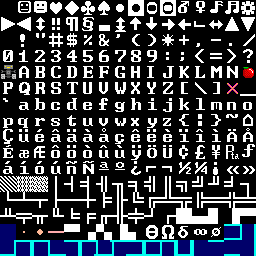
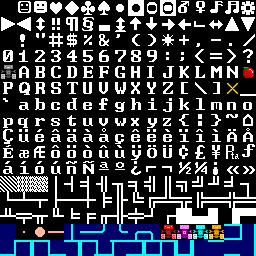
Many updates -- basic working map / move / score
- new map design in place and map.txt fixed
- READY! message printing and removal
- tunnel teleporting functional
- player movement and wall collision detection working
- scoring working
- much old code removed

Changed region(s): [[0.25, 0.875, 0.875, 0.9375], [0.125, 0.875, 0.1875, 0.9375]]

diff --git a/game.py b/game.py
@@ -7,12 +7,12 @@ from CYLGame import StatusPanel
 from CYLGame import PanelBorder
 
 
-DEBUG = False
+DEBUG = True
 
 
 class PacBot(Game):
-    MAP_WIDTH = 22
-    MAP_HEIGHT = 22
+    MAP_WIDTH = 30
+    MAP_HEIGHT = 34
     SCREEN_WIDTH = MAP_WIDTH + 2
     SCREEN_HEIGHT = MAP_HEIGHT + 6
     MSG_START = 20
@@ -32,30 +32,28 @@ class PacBot(Game):
     HOUSE_ODDS = 500 # e.g., 1/500
 
 
+    PLAYER_START_X = 14
+    PLAYER_START_Y = 24
+
     PLAYER = '@'
     EMPTY = '\0'
-    LWALL = chr(255)
-    UWALL = chr(254)
-    DWALL = chr(253)
-    RWALL = chr(252)
-    UCAP = chr(251)
-    DCAP = chr(250)
-    RCAP = chr(249)
-    LCAP = chr(248)
-    ULCOR = chr(247)
-    URCOR = chr(246)
-    BRCOR = chr(245)
-    BLCOR = chr(244)
-    URXCOR = chr(243)
-    BRXCOR = chr(242)
-    BLXCOR = chr(241)
-    ULXCOR = chr(240)
-    LRWALL = chr(239)
-    UDWALL = chr(238)
+    APPLE = 'O'
     FULL = chr(224)
     DOT = chr(225)
     POWER = chr(226)
     DOOR = chr(227)
+    PIPE = chr(228)
+    HYPHEN = chr(229)
+    J = chr(230)
+    L = chr(231)
+    F = chr(232)
+    SEVEN = chr(233)
+
+    # ghosts
+    BLINKY = chr(234)
+    PINKY = chr(235)
+    INKY = chr(236)
+    CLYDE = chr(237)
     
 
     def __init__(self, random):
@@ -67,7 +65,7 @@ class PacBot(Game):
         self.last_move = 'w' # need this to restore objects
         self.flying = 0 # set to some value and decrement (0 == on ground)
         self.hp = 1
-        self.player_pos = [self.MAP_WIDTH / 2, self.MAP_HEIGHT - 4]
+        self.player_pos = [self.PLAYER_START_X, self.PLAYER_START_Y]
         self.score = 0
         self.objects = []
         self.turns = 0
@@ -75,10 +73,24 @@ class PacBot(Game):
         self.msg_panel = MessagePanel(self.MSG_START, self.MAP_HEIGHT + 1, self.SCREEN_WIDTH - self.MSG_START, 5)
         self.status_panel = StatusPanel(0, self.MAP_HEIGHT + 1, self.MSG_START, 5)
         self.panels = [self.msg_panel, self.status_panel]
-        self.msg_panel.add("Velkommen to Robot Backcountry Skiing!")
-        self.msg_panel.add("Move left and right! Don't crash!")
 
         self.__create_map()
+
+    def print_ready(self):
+        x = 12
+        y = 18
+        for char in "READY!":
+            self.map[(x,y)] = char
+            x += 1
+
+    def erase_ready(self):
+        x = 12
+        y = 18
+        for char in "READY!":
+            self.map[(x,y)] = ' '
+            x += 1
+
+
 
     def __create_map(self):
         self.map = MapPanel(0, 0, self.MAP_WIDTH, self.MAP_HEIGHT + 1, self.EMPTY,
@@ -86,28 +98,21 @@ class PacBot(Game):
 
         self.panels += [self.map]
 
-        mapmap = {'Q': self.LWALL,
-                  'W': self.RWALL,
-                  'E': self.UWALL,
-                  'R': self.DWALL,
-                  'A': self.LCAP,
-                  'S': self.RCAP,
-                  'D': self.UCAP,
-                  'F': self.DCAP,
-                  'Z': self.BLCOR,
-                  'X': self.ULCOR,
-                  'C': self.BRCOR,
-                  'V': self.URCOR,
-                  '1': self.BLXCOR,
-                  '2': self.ULXCOR,
-                  '3': self.BRXCOR,
-                  '4': self.URXCOR,
-                  'U': self.FULL,
-                  'I': self.DOT,
+        mapmap = {'|': self.PIPE,
+                  '-': self.HYPHEN,
+                  'L': self.L,
+                  '7': self.SEVEN,
+                  'J': self.J,
+                  'F': self.F,
+                  '.': self.DOT,
                   'O': self.POWER,
-                  'P': self.DOOR,
-                  'H': self.LRWALL,
-                  'J': self.UDWALL}
+                  '=': self.DOOR,
+                  '#': self.FULL,
+                  ' ': self.EMPTY,
+                  'B': self.BLINKY,
+                  'P': self.PINKY,
+                  'I': self.INKY,
+                  'C': self.CLYDE}
 
         # open map file
         x = 0
@@ -121,7 +126,9 @@ class PacBot(Game):
                     x += 1
                 y += 1
         
-        self.map[(9,15)] = self.PLAYER
+        self.map[(14,24)] = self.PLAYER
+
+        self.print_ready()
 
         if DEBUG:
             print(self.get_vars_for_bot())  # need sensors before turn
@@ -177,50 +184,70 @@ class PacBot(Game):
                     self.map[(self.player_pos[0] + x, self.player_pos[1] + y)] = self.TRACKS
 
 
-    def handle_key(self, key):
-        self.turns += 1
-        if self.flying > 0:
-            self.score += self.FLYING_POINTS
-            self.flying -= 1
-            self.msg_panel += ["In flight for " + str(self.flying) + " turns..."]
-            if self.flying == 0:
-                self.msg_panel += ["Back on the ground!"]
+    def is_ghost(self, item):
+        if item == self.BLINKY or item == self.PINKY or item == self.INKY or item == self.CLYDE:
+            return True
         else:
-            self.score += 1
+            return False
 
-        if self.turns % 30 == 0:
-            self.level += 1
+    def is_fruit(self, item):
+        if item == self.APPLE:
+            return True
+        else:
+            return False
+
+
+    def is_blocked(self, x, y):
+
+        # returns true if the cell in the map is obstructed
+        spot = self.map[(x,y)]
+
+        if spot == self.DOT or spot == self.POWER or spot == self.EMPTY or self.is_ghost(spot) or self.is_fruit(spot):
+            return False
+        else:
+            return True
+
+    def handle_key(self, key):
+
+        self.turns += 1
+        
+        if self.turns == 1:
+            self.erase_ready()
+
+        if DEBUG:
+            print("turn: %d player started at (%d, %d)" % (self.turns, self.player_pos[0], self.player_pos[1]))
 
         self.map[(self.player_pos[0], self.player_pos[1])] = self.EMPTY
-        if key == "a":
-            self.player_pos[0] -= 1
-        if key == "d":
+
+        if key == "a" and not self.is_blocked(self.player_pos[0] - 1, self.player_pos[1]):
+                self.player_pos[0] -= 1
+        if key == "d" and not self.is_blocked(self.player_pos[0] + 1, self.player_pos[1]):
             self.player_pos[0] += 1
-        if key == "w":
-            pass
-        if key == "t":
-            # horizontal-only teleporting code
-            self.msg_panel += ["TELEPORT! (-1 HP)"]
-            self.hp -= 1
-            self.player_pos[0] = self.random.randint(0, self.MAP_WIDTH - 1)
+        if key == "w" and not self.is_blocked(self.player_pos[0], self.player_pos[1] - 1):
+            self.player_pos[1] -= 1
+        if key == "s" and not self.is_blocked(self.player_pos[0], self.player_pos[1] + 1):
+            self.player_pos[1] += 1
+
+        if self.player_pos[0] == 0 and self.player_pos[1] == 15:
+            self.player_pos[0] = 28
+        elif self.player_pos[0] == 29 and self.player_pos[1] == 15:
+            self.player_pos[0] = 1
 
         if key == "Q":
             self.running = False
             return
 
-        self.last_move = key # save last move for saved_object restoration
+        # add score based on new position
+        if self.map[(self.player_pos[0], self.player_pos[1])] == self.DOT:
+            self.score += 10
+        if self.map[(self.player_pos[0], self.player_pos[1])] == self.POWER:
+            self.score += 50
 
-        # shift the map
+        self.map[(self.player_pos[0], self.player_pos[1])] = self.PLAYER
+
+        if DEBUG:
+            print("turn: %d player ended at (%d, %d)" % (self.turns, self.player_pos[0], self.player_pos[1]))
         
-        self.colliding = False  # reset colliding variable
-
-        # check for various types of collisions (good and bad)
-        if self.flying < 1:
-            if self.colliding:
-                self.map[(self.player_pos[0], self.player_pos[1])] = self.FULL
-            else:
-                self.map[(self.player_pos[0], self.player_pos[1])] = self.PLAYER
-
         # vars should be gotten at the end of handle_turn, because vars
         # affect the *next* turn...
         if DEBUG:
